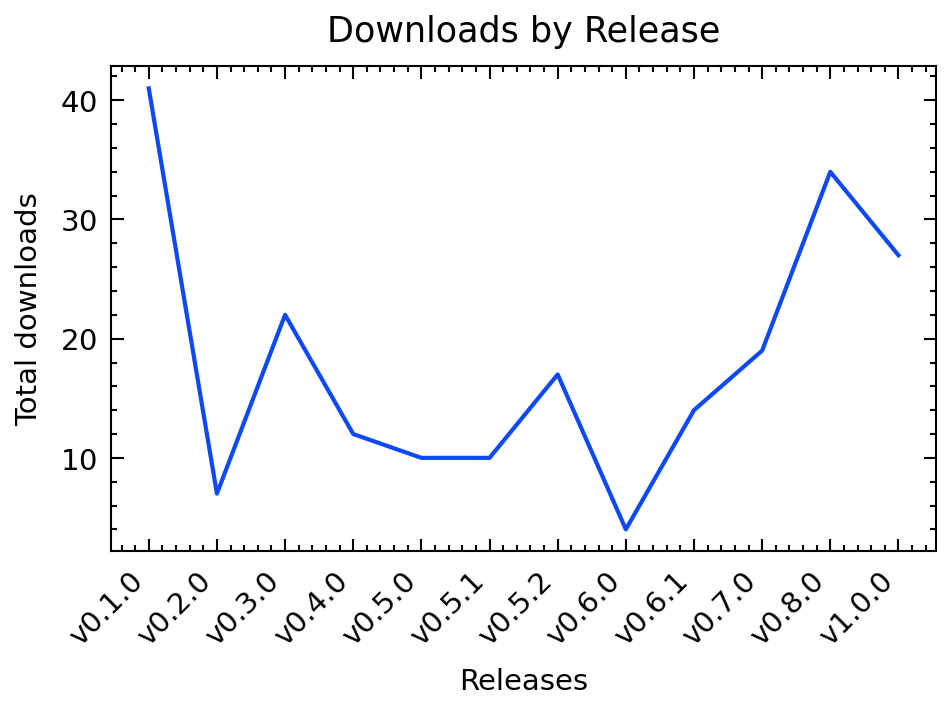
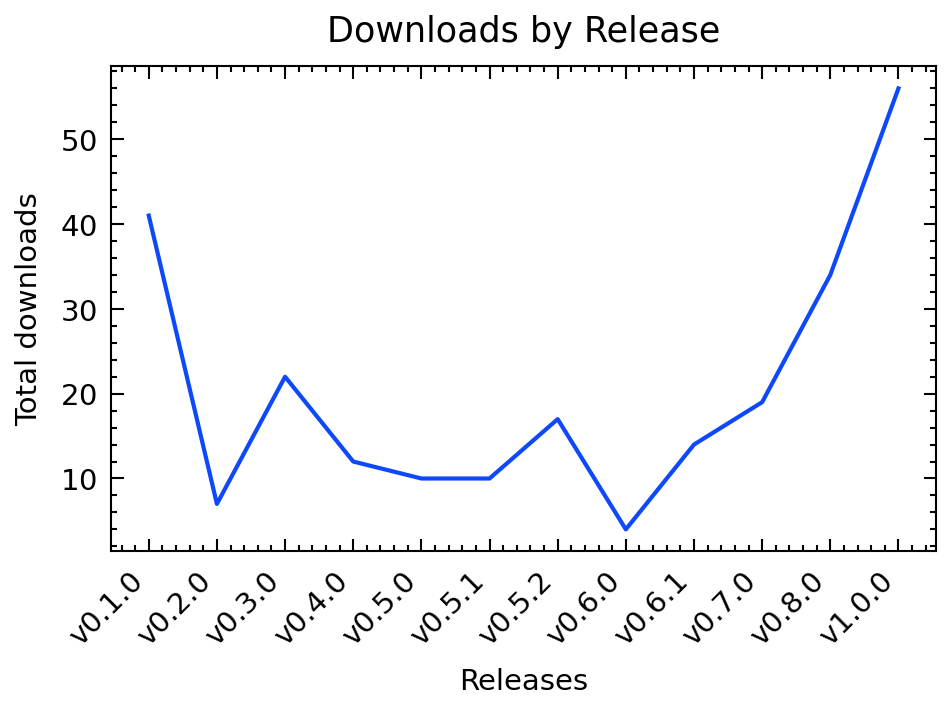
Updated Metrics data

diff --git a/README.md b/README.md
@@ -4,7 +4,7 @@
 SciWIn-Client helps users creating **Computational Workflows** in CWL. Detailed Information about SciWIn-Client can be found in the [GitHub Repository](https://github.com/fairagro/m4.4_sciwin_client). The Metrics shown below have been calculated using the GitHub API. Presentation is done via a CWL Workflow and the scripts in this repository.
 
 ## Downloads by Version
-SciWIn-Client currently has about 217 overall downloads across all versions and operating systems. The lastest version v1.0.0 currently has 27 downloads.
+SciWIn-Client currently has about 246 overall downloads across all versions and operating systems. The lastest version v1.0.0 currently has 56 downloads.
 
 
 ![downloads by version](release.png)
@@ -12,7 +12,7 @@ SciWIn-Client currently has about 217 overall downloads across all versions and 
 
 | Version | Downloads |
 |---------|-----------|
-| v1.0.0 | 27|
+| v1.0.0 | 56|
 | v0.8.0 | 34|
 | v0.7.0 | 19|
 | v0.6.1 | 14|
@@ -27,7 +27,7 @@ SciWIn-Client currently has about 217 overall downloads across all versions and 
 
 
 ## Downloads by Operating System
-SciWIn-Client is used on all major operating systems. There are 113 downloads of the Linux executable, 44 downloads of the Windows executable and 60 downloads of the Mac OS executable.
+SciWIn-Client is used on all major operating systems. There are 142 downloads of the Linux executable, 44 downloads of the Windows executable and 60 downloads of the Mac OS executable.
 
 
 ![downloads by platform](platform.png)
@@ -36,10 +36,10 @@ SciWIn-Client is used on all major operating systems. There are 113 downloads of
 | Platform | Downloads |
 |---------|-----------|
 | MacOS (ARM) | 35|
-| Linux (ARM) | 28|
+| Linux (ARM) | 30|
 | MacOS (x64) | 25|
 | Windows (x64) | 44|
-| Linux (x64) | 85|
+| Linux (x64) | 112|
 
 
 ## Creating this Workflow
